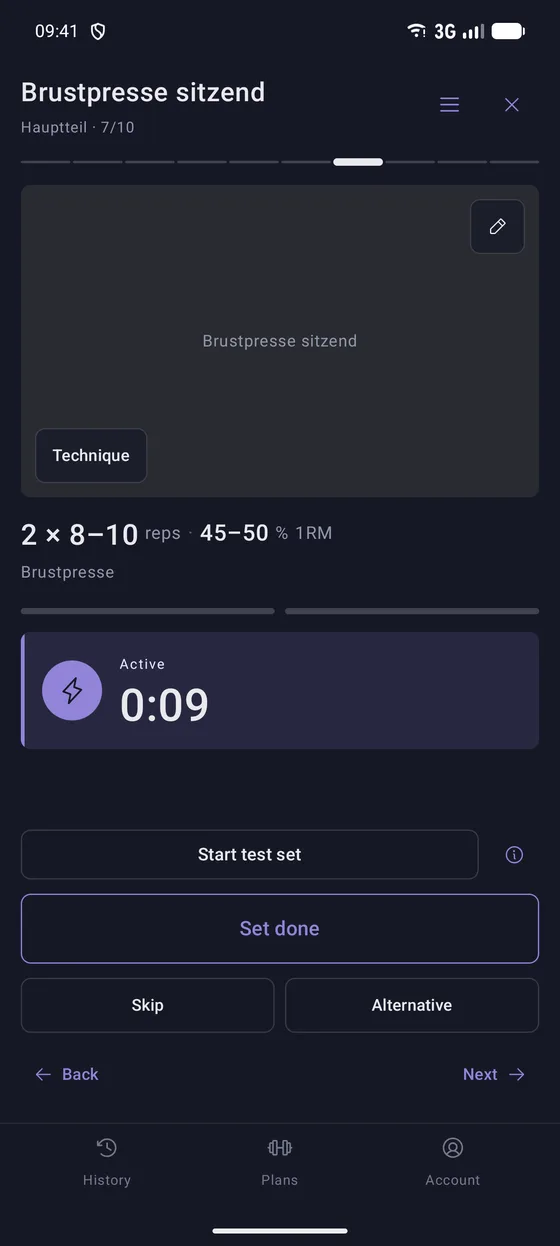
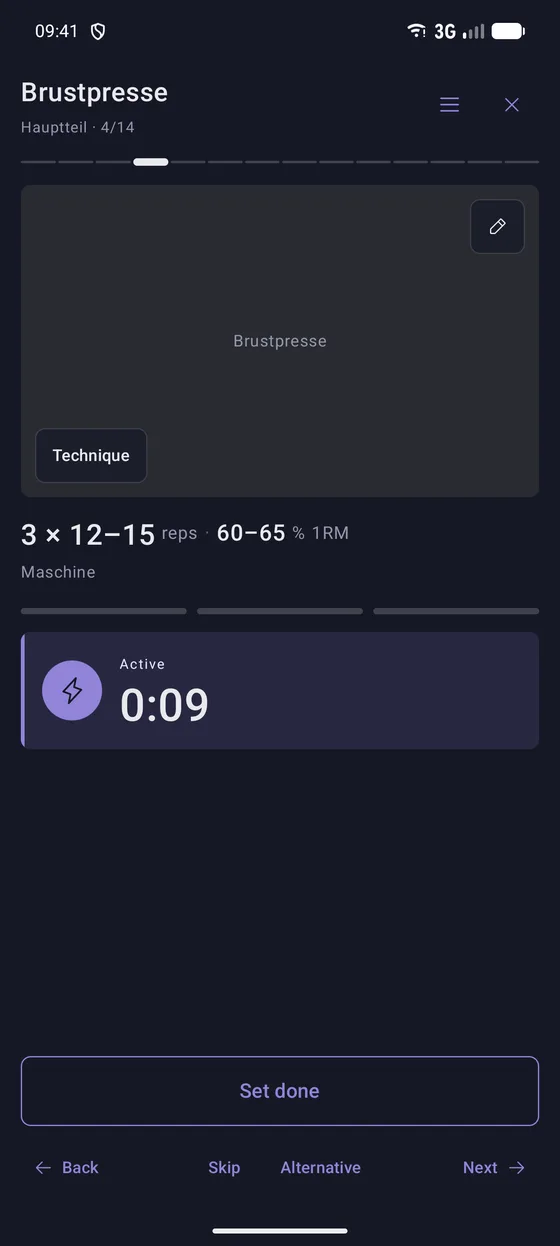
Produktseite: Einrichtungs-Block, aktuelle Trainings-Screens
Claude-Session: https://claude.ai/code/session_01BxEnEnexVEdxhPLXHLJ9MR

diff --git a/index.html b/index.html
@@ -89,7 +89,7 @@
     </div>
     <div class="phones">
       <div class="phone"><img src="img/verlauf.webp" alt="Verlauf mit Zeit seit dem letzten Training und dem nächsten empfohlenen Termin"></div>
-      <div class="phone big"><img src="img/training-satz.webp" alt="Trainingsbildschirm mit laufendem Satz"></div>
+      <div class="phone big"><img src="img/training-pause.webp" alt="Pause mit Timer und Satzerfassung"></div>
       <div class="phone"><img src="img/plan.webp" alt="Trainingsplan mit Wochen und Einheiten"></div>
     </div>
   </div>
@@ -120,6 +120,7 @@
       <h2>Ein Blick, ein Tipp – weiter geht’s.</h2>
       <p>Helpanion zeigt dir genau das, was du zwischen zwei Sätzen brauchst: Übung, Zielwiederholungen, Intensität und die Pause. Große Tasten, einhändig bedienbar, der Bildschirm bleibt an.</p>
       <ul class="points">
+        <li>Vor dem ersten Satz: deine Einstellung an der Maschine und das Gewicht vom letzten Mal</li>
         <li>Pausen-Timer, der auch weiterläuft, wenn du die App verlässt</li>
         <li>Gewicht und Wiederholungen per Tipp, Korrekturen jederzeit</li>
         <li>Gewichtsvorschlag aus deinem 1RM, Einstellsatz, solange noch keins bekannt ist</li>
@@ -129,8 +130,8 @@
       </ul>
     </div>
     <div class="media">
+      <div class="phone"><img src="img/training-setup.webp" alt="Vor dem Satz: Einstellung der Maschine und Gewicht vom letzten Mal"></div>
       <div class="phone"><img src="img/training-pause.webp" alt="Pause mit Timer und Satzerfassung"></div>
-      <div class="phone"><img src="img/training-satz.webp" alt="Laufender Satz"></div>
     </div>
   </div>
 </section>
@@ -144,6 +145,7 @@
       <ul class="points">
         <li>Restzeit der Pause groß und gut lesbar</li>
         <li>Sätze quittieren, Gewicht, Wiederholungen und RPE direkt am Handgelenk anpassen</li>
+        <li>Vor dem ersten Satz das Gewicht vom letzten Mal</li>
         <li>Vibration zum Ende der Pause</li>
       </ul>
     </div>

diff --git a/en.html b/en.html
@@ -89,7 +89,7 @@
     </div>
     <div class="phones">
       <div class="phone"><img src="img/en-verlauf.webp" alt="History with time since the last training and the next recommended date"></div>
-      <div class="phone big"><img src="img/en-training-satz.webp" alt="Training screen with a running set"></div>
+      <div class="phone big"><img src="img/en-training-pause.webp" alt="Rest with timer and set logging"></div>
       <div class="phone"><img src="img/en-plan.webp" alt="Training plan with weeks and sessions"></div>
     </div>
   </div>
@@ -120,6 +120,7 @@
       <h2>One glance, one tap – keep going.</h2>
       <p>Helpanion shows exactly what you need between two sets: exercise, target reps, intensity and your rest. Large buttons, one-handed use, the screen stays on.</p>
       <ul class="points">
+        <li>Before the first set: your machine setup and the weight from last time</li>
         <li>Rest timer that keeps running when you leave the app</li>
         <li>Weight and reps with a tap, corrections at any time</li>
         <li>Weight suggestion from your 1RM, a calibration set while it is still unknown</li>
@@ -129,8 +130,8 @@
       </ul>
     </div>
     <div class="media">
+      <div class="phone"><img src="img/en-training-setup.webp" alt="Before the set: machine setup and weight from last time"></div>
       <div class="phone"><img src="img/en-training-pause.webp" alt="Rest with timer and set logging"></div>
-      <div class="phone"><img src="img/en-training-satz.webp" alt="Running set"></div>
     </div>
   </div>
 </section>
@@ -144,6 +145,7 @@
       <ul class="points">
         <li>Remaining rest time, big and easy to read</li>
         <li>Confirm sets and adjust weight, reps and RPE right on your wrist</li>
+        <li>The weight from last time before the first set</li>
         <li>Vibration when your rest ends</li>
       </ul>
     </div>
